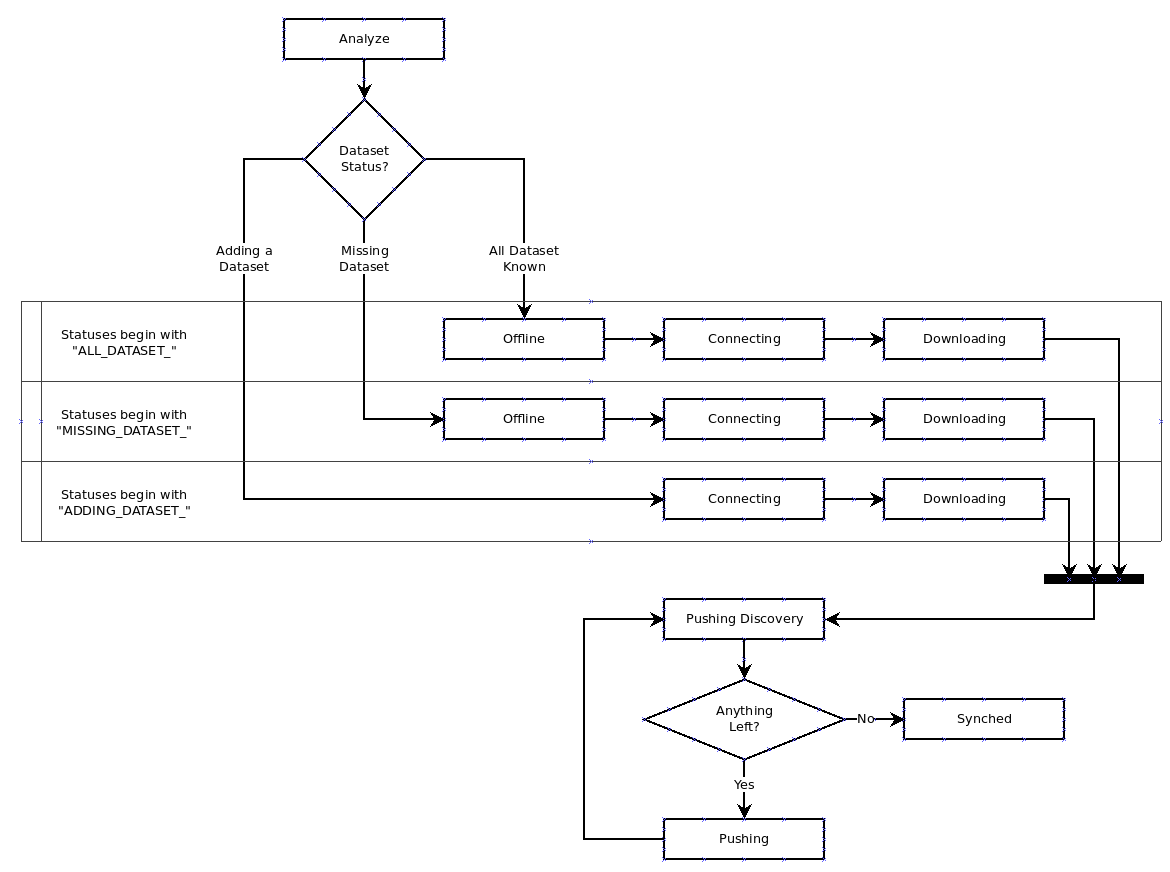
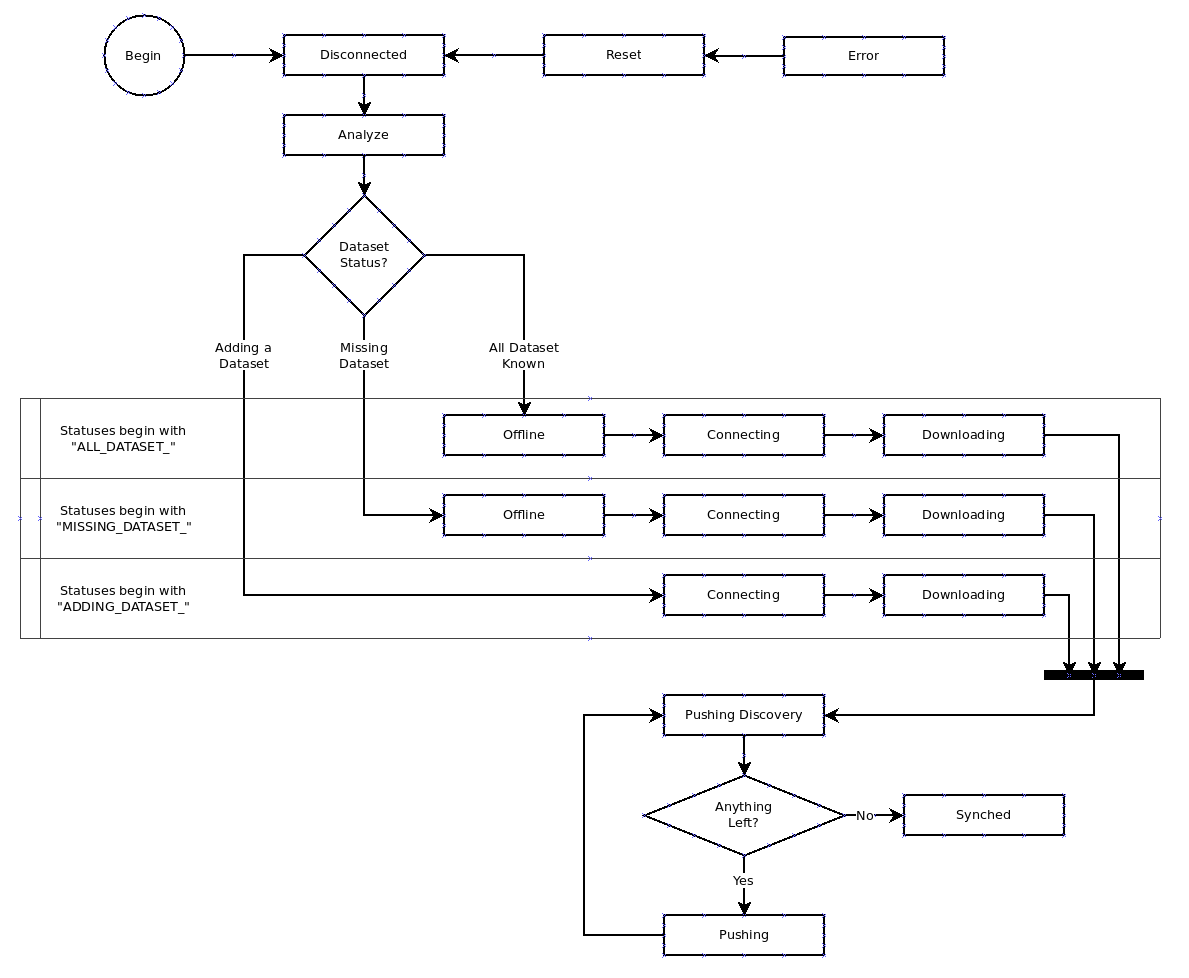
More documentation.

diff --git a/README.md b/README.md
@@ -34,21 +34,167 @@ It will do all this by using a State Machine type of system which is constructed
 
 ![Current State Diagram](./bin/README/img/process.png)
 
-Current State Diagram... Any state shown can go to unshown Error state, which can only lead to the Analyze state.
+Current State Diagram... Note that any state shown can go to Error state.
 
 Analyze will end up going to either one of three states:
 
  1. All Dataset - If all datasets are known.
  2. Missing Dataset - If we know that we are completely lacking any of the datasets which was passed into the constructor.
  3. Adding Dataset - If all previous datasets were known but we have added one which is unknown.
-	
+
 Of these statuses Downloading in All Dataset as well as Connecting and Downloading of Adding Dataset are all classed as online and will fire the online event. Connecting and Downloading will fire the adding-new-dataset and added-new-dataset respectively.
 
 From these statuses it will fire pushing and synced events when it enters Pushing Discovery and Synched Statuses.
 
 ## How do you use SyncItControl?
 
-Right now the only source of information is in the [SyncItTodoMVC](https://github.com/forbesmyester/SyncItTodoMvc) source code, but there will be more complete instructions soon!
+There are lots of components that are required to use SyncItControl... I could hide some of this complexity, and I still might but for testing purposes it is better that the be exposed.
+
+	// A timestamp for tLIdEncodeDecoder, must be static within code as it is used
+	// to generate Id's which need to be sequential.
+	var tLIdEncoderDecoderTimestamp = new Date(2014, 1, 1, 1, 1, 1, 1).getTime(),
+
+	// Create the instance of tLIdEncoderDecoder https://github.com/forbesmyester/getTLIdEncoderDecoder
+	var tLIdEncoderDecoder = getTLIdEncoderDecoder(tLIdEncoderDecoderTimestamp, 2),
+
+	// SyncLocalStorage is a wrapper around LocalStorage which is also namespaced
+	// and can store structured data, is is part of the SyncIt package stored at
+	// see https://github.com/forbesmyester/SyncIt.
+	var SyncLocalStorage = new SyncLocalStorage(
+		localStorage,
+		'sic-state-' + userId,
+		JSON.stringify,
+		JSON.parse
+	);
+
+	// This is actually the first bit of code used from this repository.
+	// StoreSequenceId is used to record what point we should be requesting data
+	// from and it does this by buffering writes until SyncItControl is Synced.
+	var storeSequenceId = new StoreSequenceId(
+		stateConfig,
+		tLIdEncoderDecoder.sort
+	);
+
+	// This is an AJAX wrapper for __you__ to write, it takes a dataset name (which
+	// is similar to a collection in MongoDB or a table in MySQL) as well as a
+	// sequence Id (which is basically the point in time that we have data to
+	// already and a callback. When you are done you should call the callback with
+	// the parameters (err, queueitems, sequenceId) which are whether an error
+	// occurred, the data (as an array or objects) and the sequenceId that you now
+	// have all the data for.
+	var downloadDatasetFunc = function(dataset, fromSequenceId, next) {
+		// The callback will be used something like this, once you have the data...
+		next(
+			null,
+			[
+				{"s": "cars", "k": "BMW", "b": 0, "m": "userDevice45", "r": null,
+				"u": { "color": "Blue" }, "o": "update"}
+			],
+			"538097c4a749525c12eb987e"
+		);
+	};
+
+	// When SyncItControl needs to upload data because SyncIt has told it that there
+	// is some this function will be called with one Queueitem (see SyncIt) and a
+	// callback function. That callback function should be called with two
+	// parameters which are whether an error has occurred and the sequenceId which
+	// the data was added as.
+	var uploadChangeFunc = function(queueitem, next) {
+		next(null, "537f81cea749525c12eb986a");
+	};
+
+	// We need an EventSourceMonitor so SyncItControl can monitor the connection
+	// and be notified of new data. Note that in this instance I choose to use an
+	// array instead of a URL for the initial connection (second parameter), this
+	// is valid (and required by SyncItControl) because the Factory that creates
+	// the EventSource (first parameter) is expecting it. See
+	// https://github.com/forbesmyester/eventsource-monitor for more information.
+	var eventSourceMonitor = new EventSourceMonitor(
+		function(datasets) {
+			var url = baseUrl +
+				'/sync/' +
+				deviceId +
+				'?dataset[]=' +
+				datasets.sort().join(
+					'&dataset[]='
+				);
+			return new EventSource(url);
+		},
+		[]
+	);
+
+	// Lastly before creating an instance of SyncItControl we need to supply a
+	// function that will take care of resolving conflicts when they occur. This
+	// is required because SyncItControl will be the one calling SyncIt.feed()
+	// when new data is supplied via downloadDatasetFunc() or from the
+	// EventSourceMonitor. This is a perfectly acceptable implementation which
+	// just takes the latest timestamp (as supplied by the client), but depending
+	// on your app it might make sense to write your own. See the documentation
+	// for SyncIt.feed() for more information.
+	var conflictResolutionFunction = function(
+		dataset,
+		datakey,
+		storedrecord,
+		localChanges,
+		remoteChanges,
+		resolved
+	) {
+		var lastRemoteTs = null,
+			lastLocalTs = null;
+
+		remoteChanges.map(function(c) { lastRemoteTs = c.t; });
+		localChanges.map(function(c) { lastLocalTs = c.t; });
+
+		if (lastLocalTs > lastRemoteTs) {
+			return resolved(true, localChanges);
+		}
+
+		return resolved(true,[]);
+	};
+
+	var syncItControl = new SyncItControl(
+		syncIt, // An instance of SyncIt (see https://github.com/forbesmyester/SyncIt)
+		eventSourceMonitor,
+		storeSequenceId,
+		downloadDatasetFunc,
+		uploadChangeFunc,
+		conflictResolutionFunction
+	);
+
+Phew! After all that we should see how we use it SyncItControl with SyncIt. Firstly you would continue to use SyncIt exactly as before, except that you would probably never have a need to call SyncIt.feed() again.
+
+	syncIt.set('cars', 'Subaru', { "Seats": "Leather" }, function(err,result) {
+		if (err) {
+			// Something went wront... throw?
+		}
+		alert("The data stored in cars.subaru has been updated"
+	});
+	syncIt.get('cars', 'Subaru', function(err,result) {
+			if (err) {
+				// Something went wront... throw?
+			}
+			console.log(
+				'The data stored in cars.subaru is: ' +
+				JSON.stringify(result)
+			);
+		}
+	);
+
+It maybe that due to user interaction or new information from elsewhere that you want to also use SyncIt / SyncItControl with extra datasets... This is as easy as calling SyncItControl.addMonitoredDataset(). The first parameter is the name of the dataset to add and the second is a callback when it is ready for use.
+
+	syncItControl.addMonitoredDataset('boats', function() {
+		console.log("The 'boats' dataset is now ready for use");
+	});
+
+The only other thing you may well need to do is watch for when the state of SyncIt entered "disconnected", in which case you will probably want to try and reconnect, at least if the browser reports that there is a data connection. In this situation I am taking the easy way out and attempting to reconnect 10 seconds later!
+
+	syncItControl.on('entered-state', function(state) {
+		if (state === 'disconnected') {
+			setTimeout(function() {
+				syncItControl.connect();
+			}, 10000);
+		}
+	});
 
 ## Source Code
 
